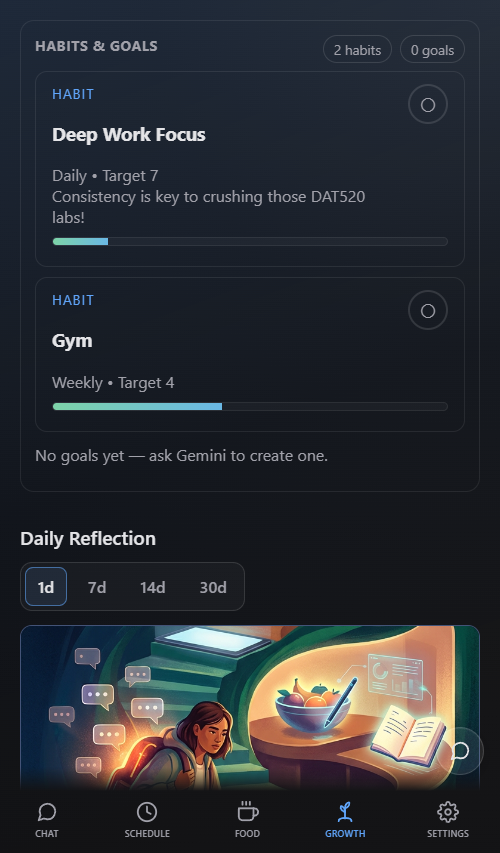
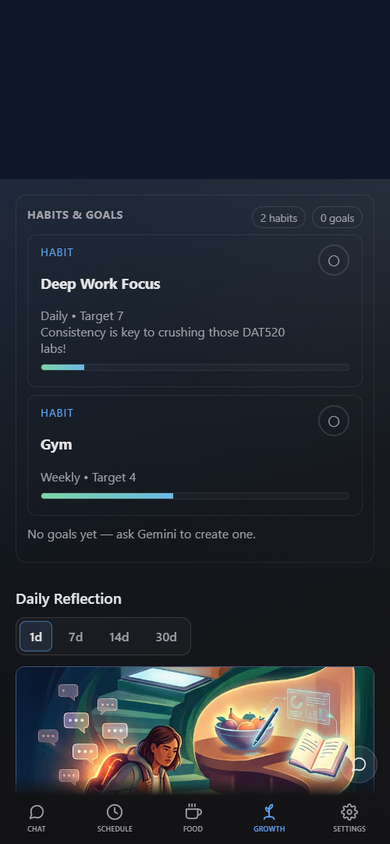
fix(web): sharper preview, better opacity, pixel-perfect growth image

diff --git a/apps/web/src/index.css b/apps/web/src/index.css
@@ -8980,9 +8980,9 @@ label small.muted {
   position: absolute;
   inset: 0;
   background: linear-gradient(
-    rgba(15, 23, 42, 0.55),
-    rgba(15, 23, 42, 0.35) 40%,
-    rgba(15, 23, 42, 0.55)
+    rgba(15, 23, 42, 0.45),
+    rgba(15, 23, 42, 0.25) 40%,
+    rgba(15, 23, 42, 0.45)
   );
   z-index: 1;
   pointer-events: none;
@@ -8996,8 +8996,8 @@ label small.muted {
   object-fit: cover;
   /* Anchor to bottom so the screenshot footer overlaps with the real tab bar */
   object-position: center bottom;
-  opacity: 0.22;
-  filter: blur(4px);
+  opacity: 0.28;
+  filter: blur(2px);
   pointer-events: none;
   user-select: none;
   z-index: 0;
